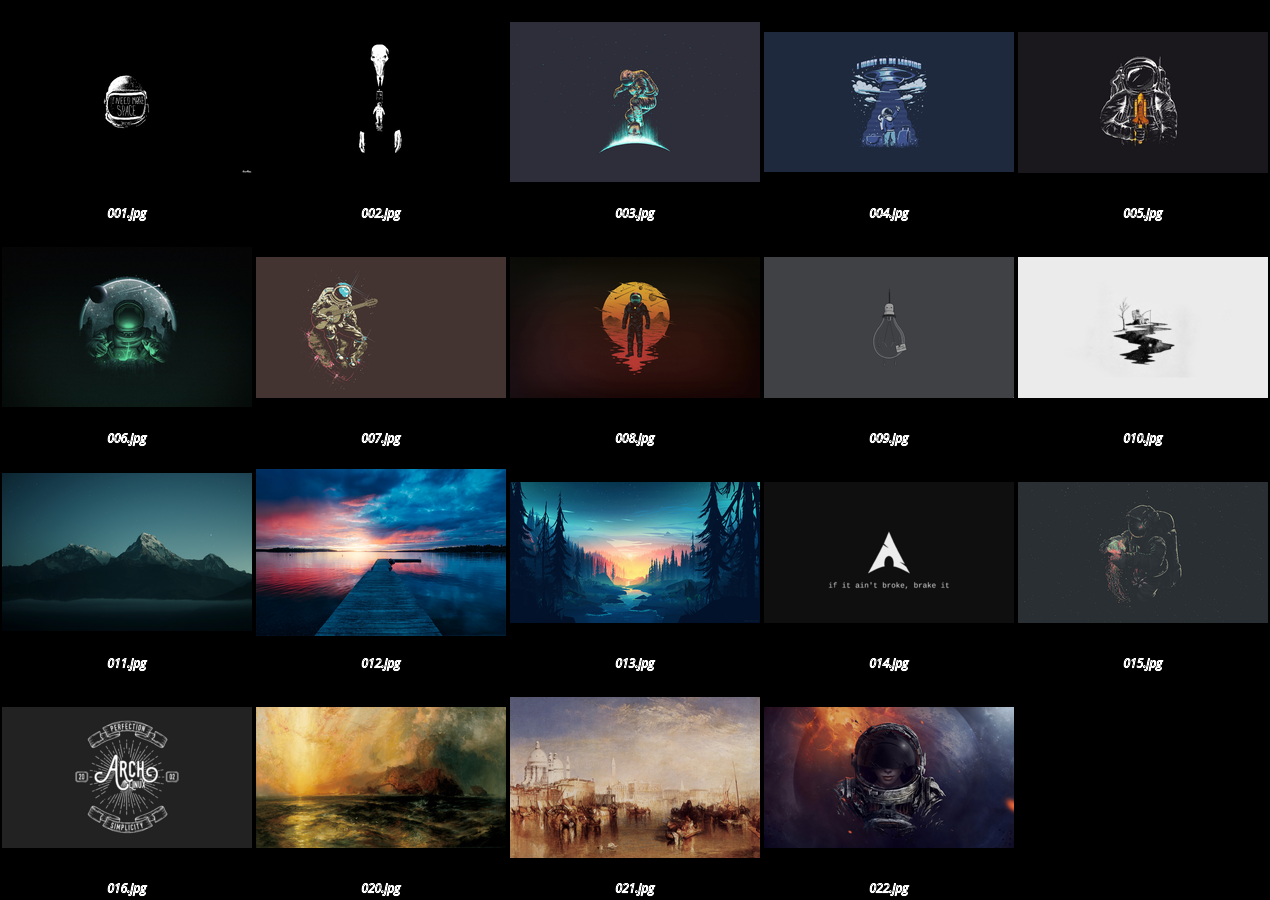
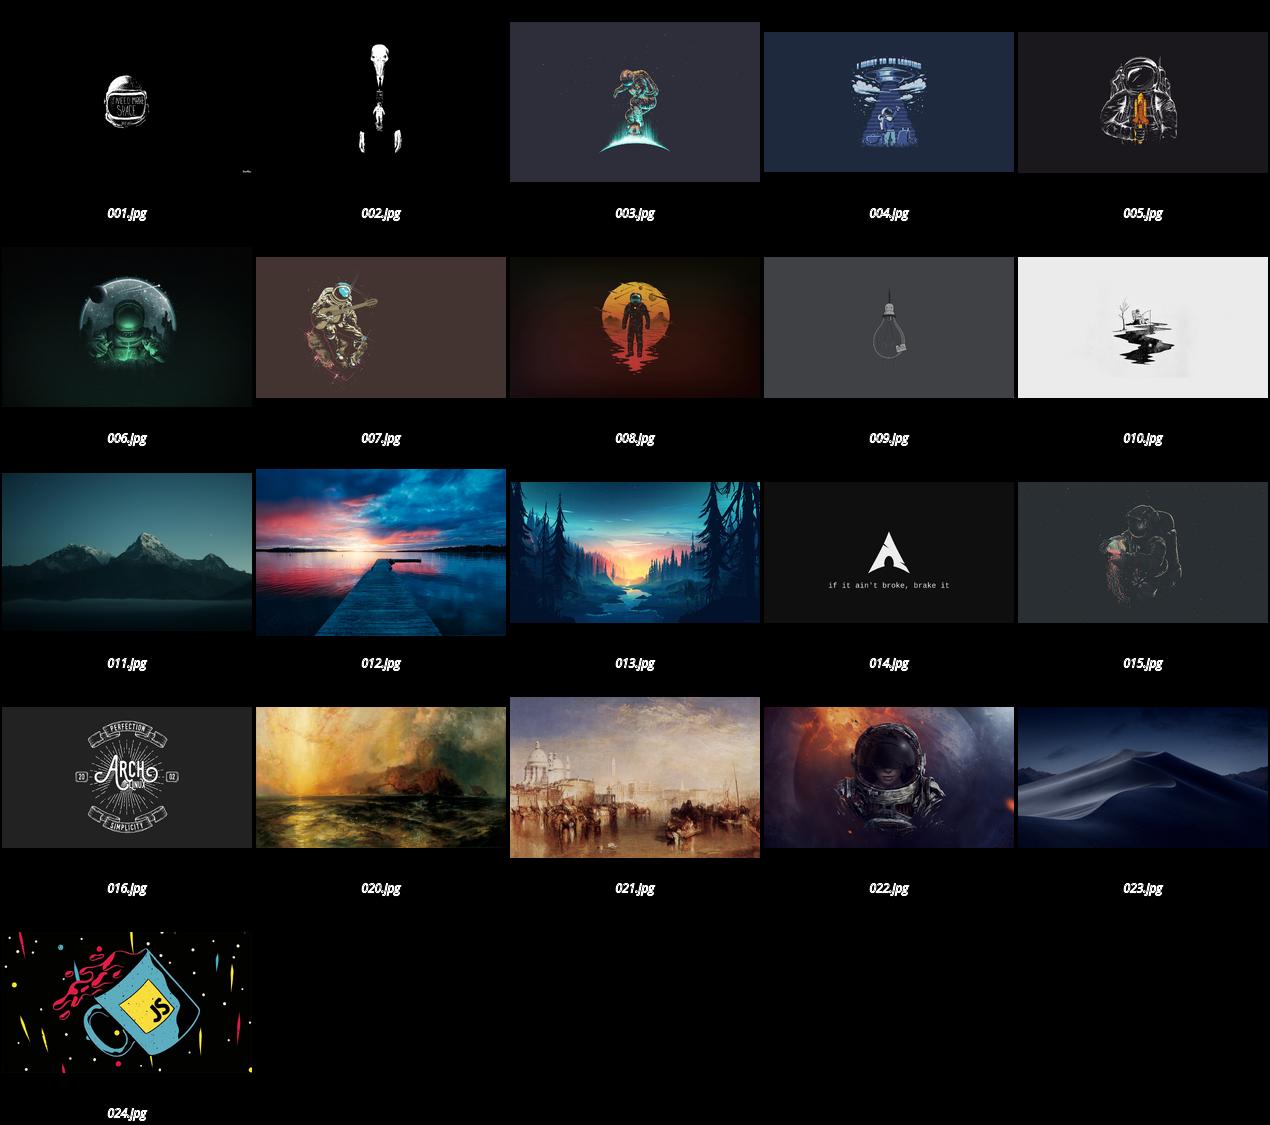
feat: added two wallpapers

diff --git a/README.md b/README.md
@@ -17,6 +17,8 @@ Here are the image credits that I'm aware of:
 - [016.jpg](016.jpg): From [GetWallpapers](http://getwallpapers.com/collection/arch-linux-wallpaper)
 - [020.jpg](020.jpg): [Thomas Moran](https://en.wikipedia.org/wiki/Thomas_Moran) - [Fiercely the red sun descending/Burned his way along the heavens](https://ncartmuseum.org/art/detail/fiercely_the_red_sun_descending_burned_his_way_along_the_heavens)
 - [021.jpg](021.jpg): [J. M. W. Turner](https://en.wikipedia.org/wiki/J._M._W._Turner) - [Palazzo ducale](https://commons.wikimedia.org/wiki/File:Joseph_Mallord_William_Turner_094.jpg)
+- [023.jpg](023.jpg): [Mojave Desert]()
+- [024.jpg](024.jpg): []()
 
 ## Collage
 
